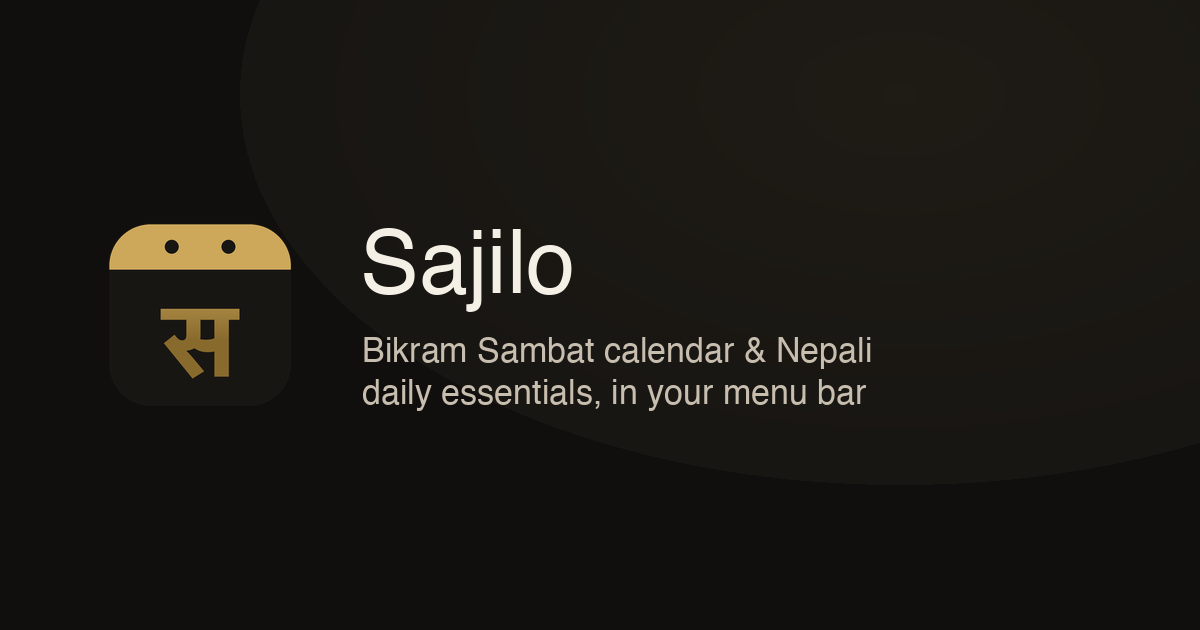
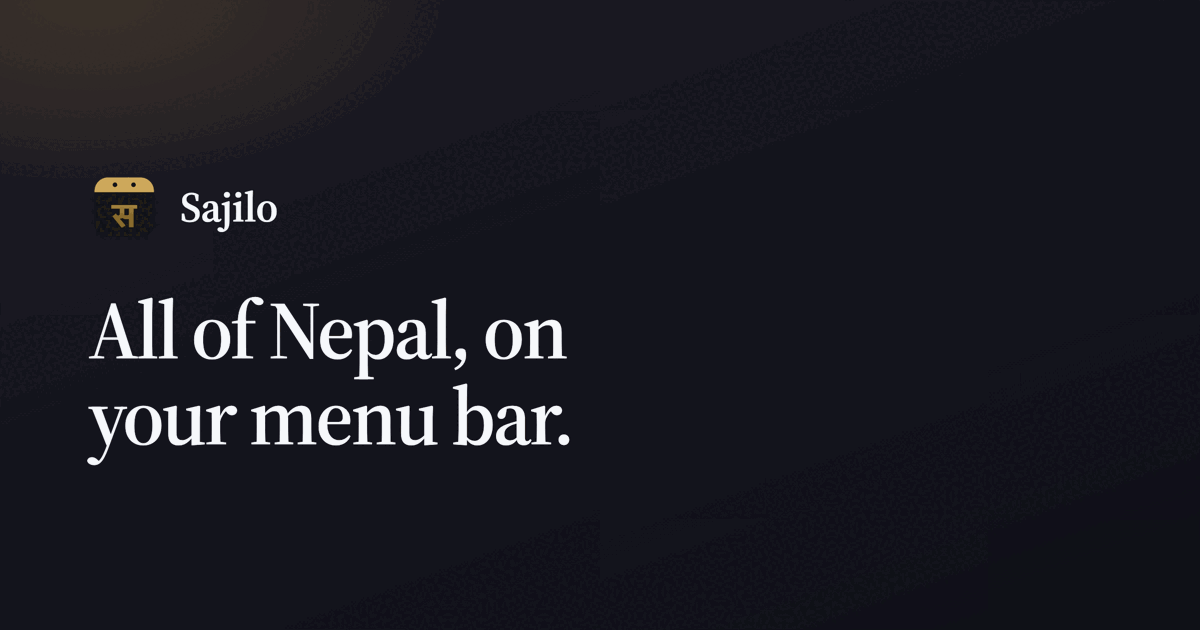
chore: update landing page metadata and OG image for improved sharing
Revised Open Graph title and description to better represent the app's features and offerings. Updated the OG image to enhance visual appeal when shared on social media platforms.

Changed region(s): [[0.0617, 0.2714, 0.74, 0.6032], [0.0617, 0.6032, 0.74, 0.754], [0.0, 0.0, 0.2158, 0.2111]]

diff --git a/apps/landing/index.html b/apps/landing/index.html
@@ -10,8 +10,8 @@
 <link rel="apple-touch-icon" href="assets/apple-touch-icon.png">
 <link rel="canonical" href="https://sajilo.fyi/">
 
-<meta property="og:title" content="Sajilo: Bikram Sambat calendar & Nepali daily essentials">
-<meta property="og:description" content="News, bazar and NEPSE rates, daily rashifal, and Nepali unit tools, alongside an offline-first BS calendar. Free and open source.">
+<meta property="og:title" content="Sajilo: all of Nepal, on your menu bar">
+<meta property="og:description" content="Bikram Sambat calendar, news from nine Nepali newsrooms, bazar and NEPSE rates, rashifal, and unit tools. Free and open source.">
 <meta property="og:image" content="https://sajilo.fyi/assets/og-image.png">
 <meta property="og:url" content="https://sajilo.fyi/">
 <meta property="og:type" content="website">
